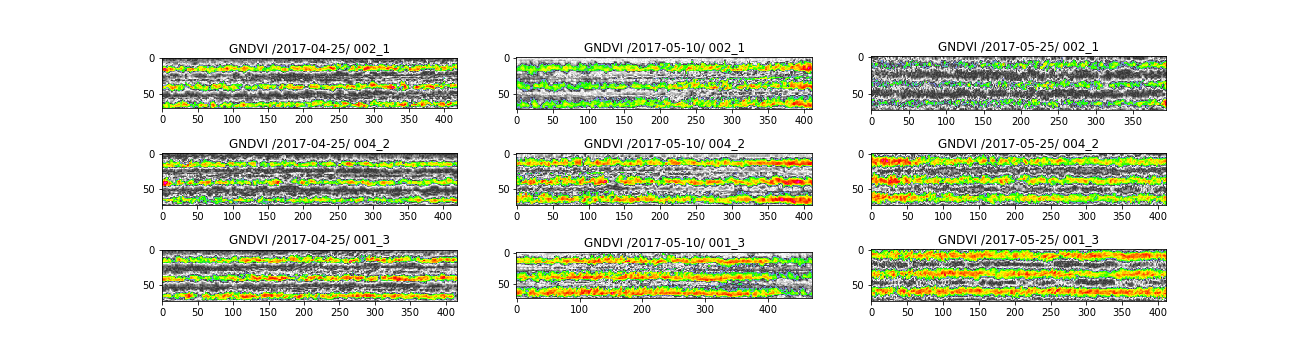
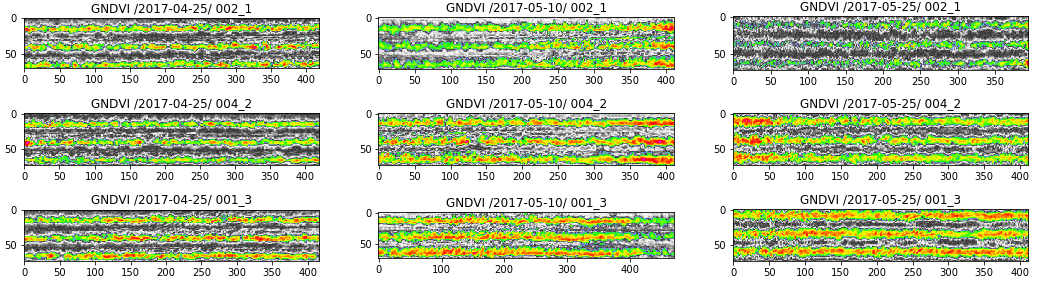
fix

diff --git a/spectral_indices.md b/spectral_indices.md
@@ -87,7 +87,7 @@ band is important for separating trash from others states of the crop
 
 ![](img/multiples_123_NDVI.png)
 ###### Figure x
-![](img/multiples_123_NDVI.png)
+![](img/multiples_123_GNDVI.png)
 ###### Figure x
 
 #### Summary
